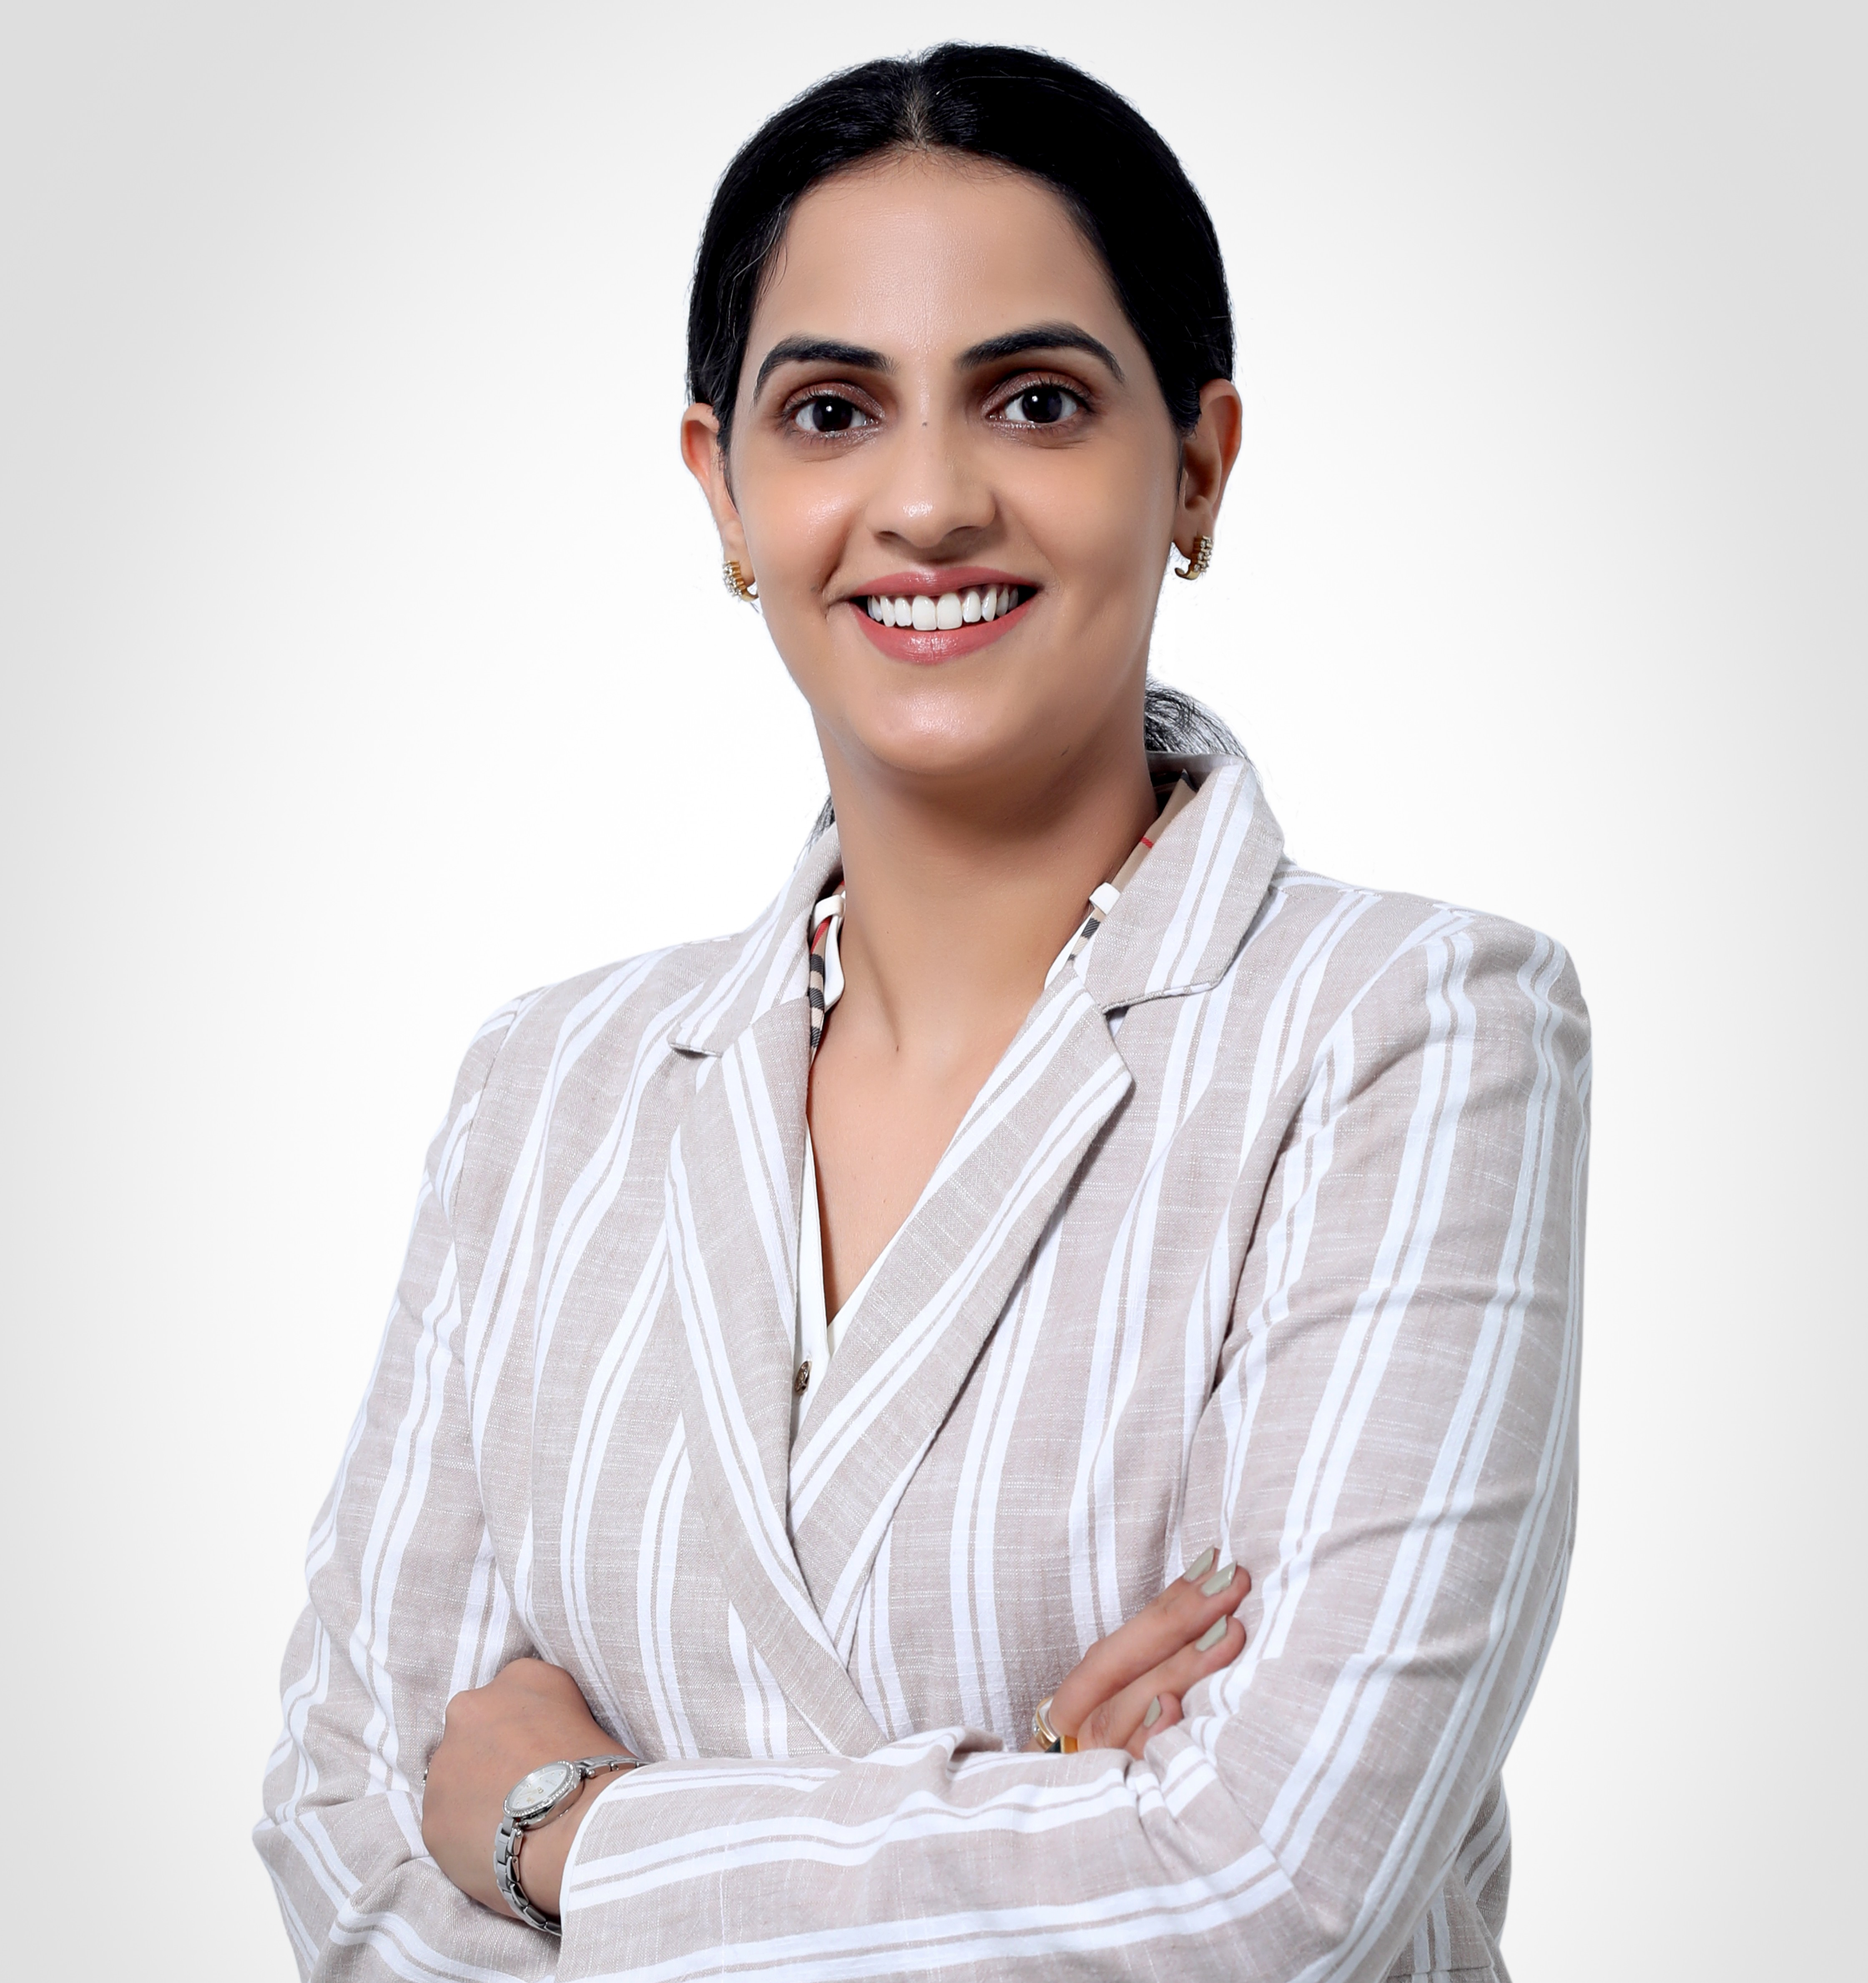
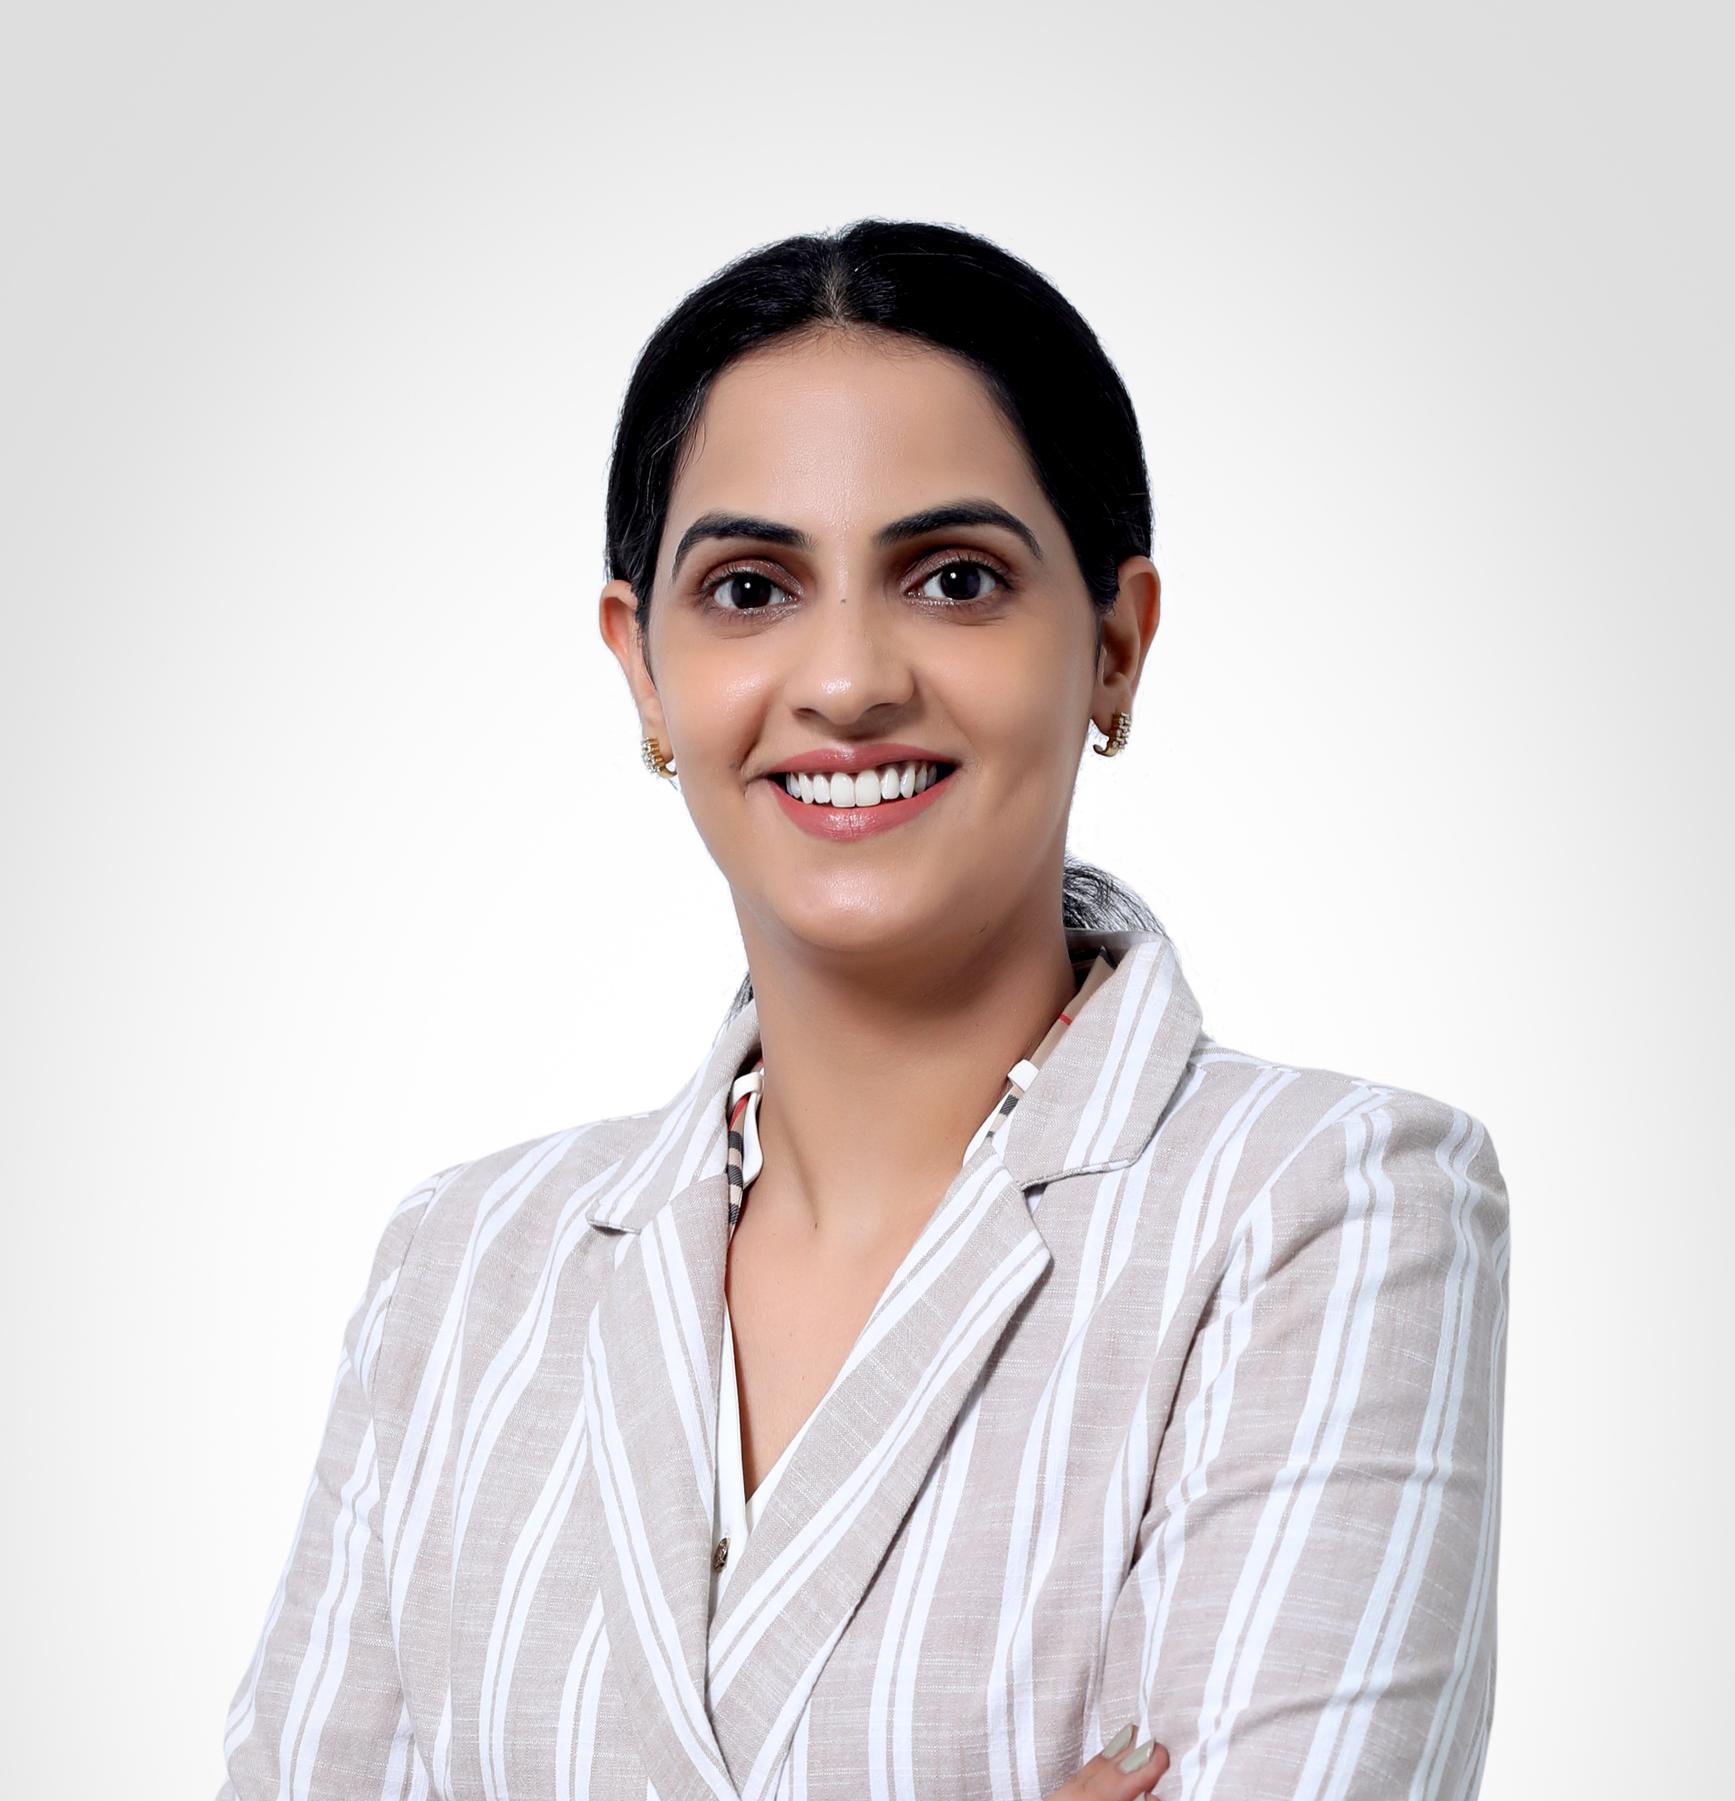
photo set

diff --git a/frontend/src/components/InstructorsSection.jsx b/frontend/src/components/InstructorsSection.jsx
@@ -80,7 +80,7 @@ const studentMentors = [
     id: 3,
     name: "Aprajita Budhwar",
     role: "Student Mentor",
-    image: "/Aprajita.JPG",
+    image: "/aprajita.JPG",
     roleColor: "text-[#C6930A]",
     description:
       "Delivering judicial knowledge paired with implementable legal guidance",
